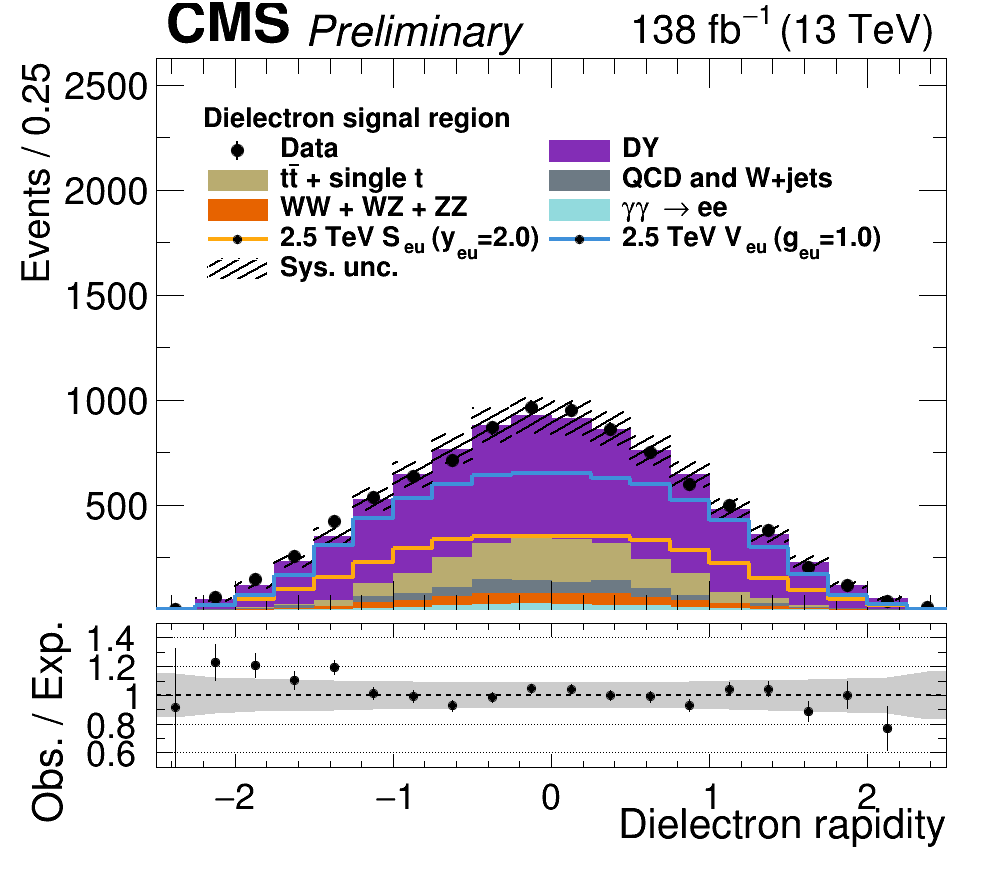
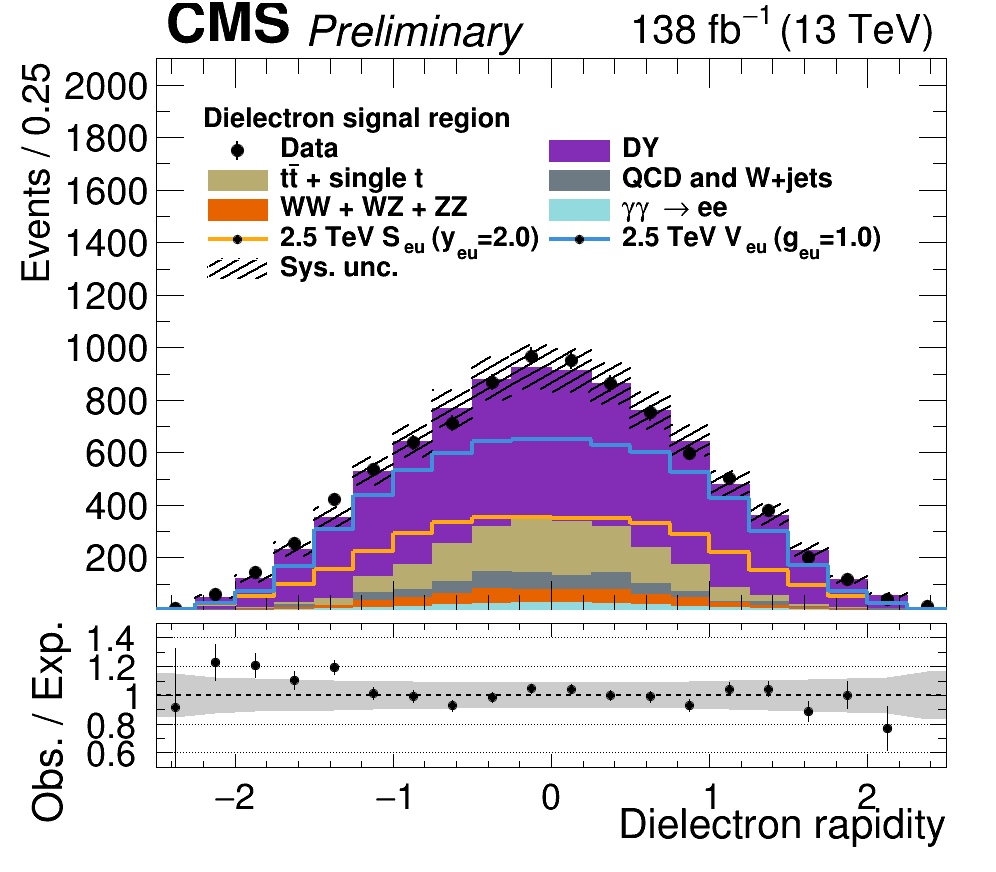
updating ymax for elel

diff --git a/plots/ElEl/draw_cmp_from_saved.C b/plots/ElEl/draw_cmp_from_saved.C
@@ -417,7 +417,7 @@ void draw_cmp_from_saved(){
 
 
     int year = -1;
-    float hmax = 1000;
+    float hmax = 1500;
     //if(year == 2016)
     //    hmax *= 0.625;
     //if(year == 2017)
@@ -451,7 +451,7 @@ void draw_cmp_from_saved(){
     logy = false;
     int n_cost_bins = 10;
     float cost_bin_size = 2./n_cost_bins;
-    hmax = 4000;
+    hmax = 3500;
 
     //if(year == 2016)
     //    hmax *= 0.625;
@@ -482,7 +482,7 @@ void draw_cmp_from_saved(){
     int n_rap_bins = 20;
     float rap_bin_size = 5. / n_rap_bins;
 
-    hmax = 2500;
+    hmax = 2000;
 
     //if(year == 2016)
     //    hmax *= 0.625;
